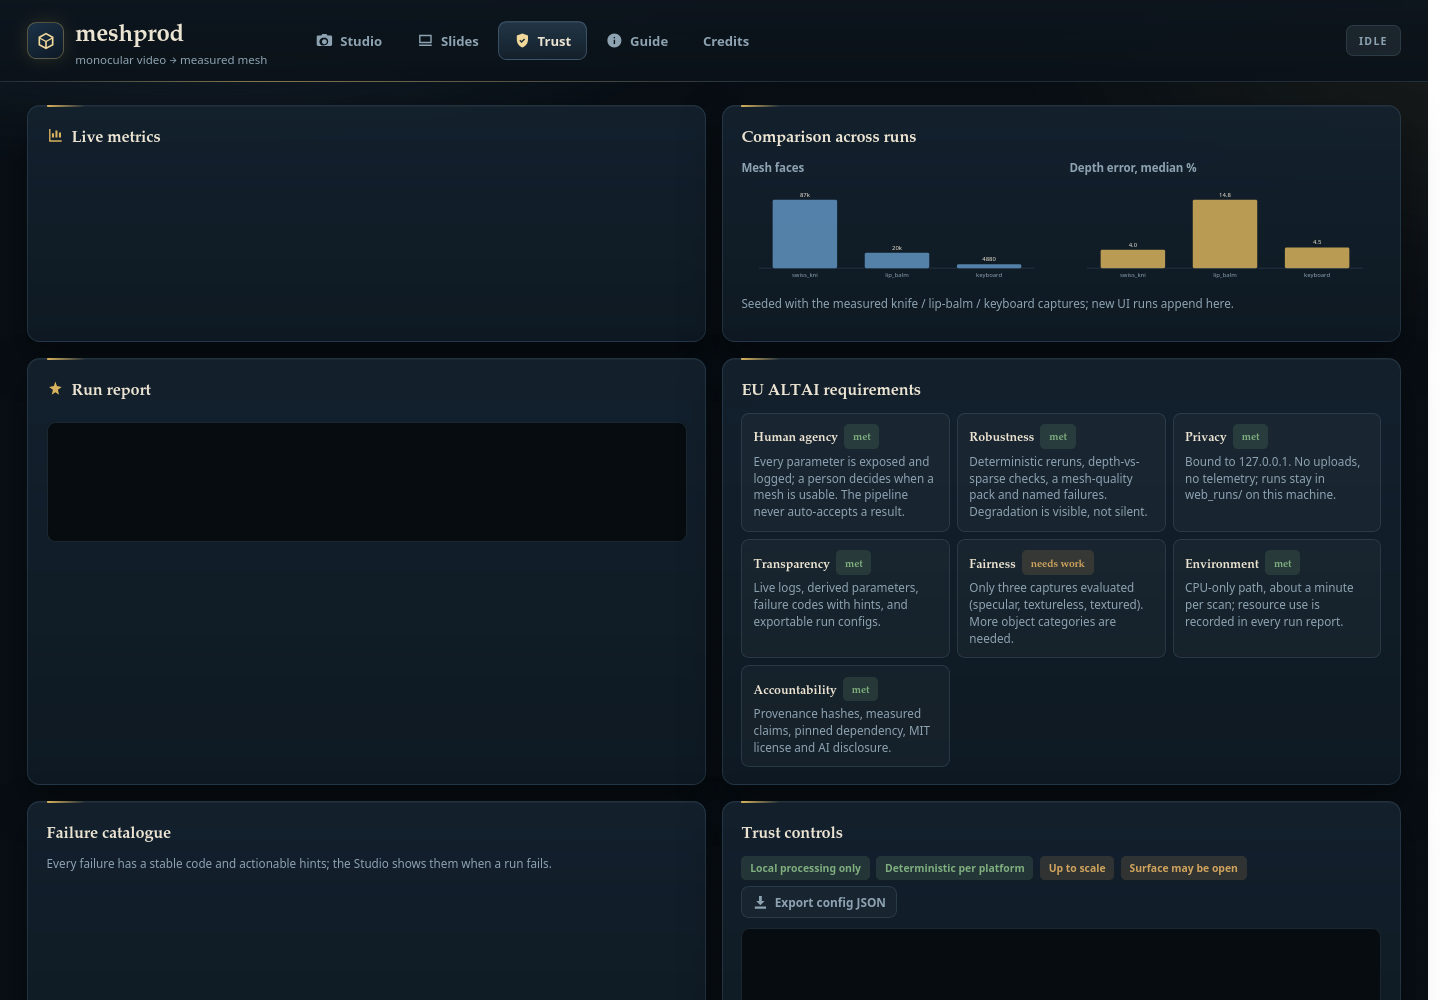
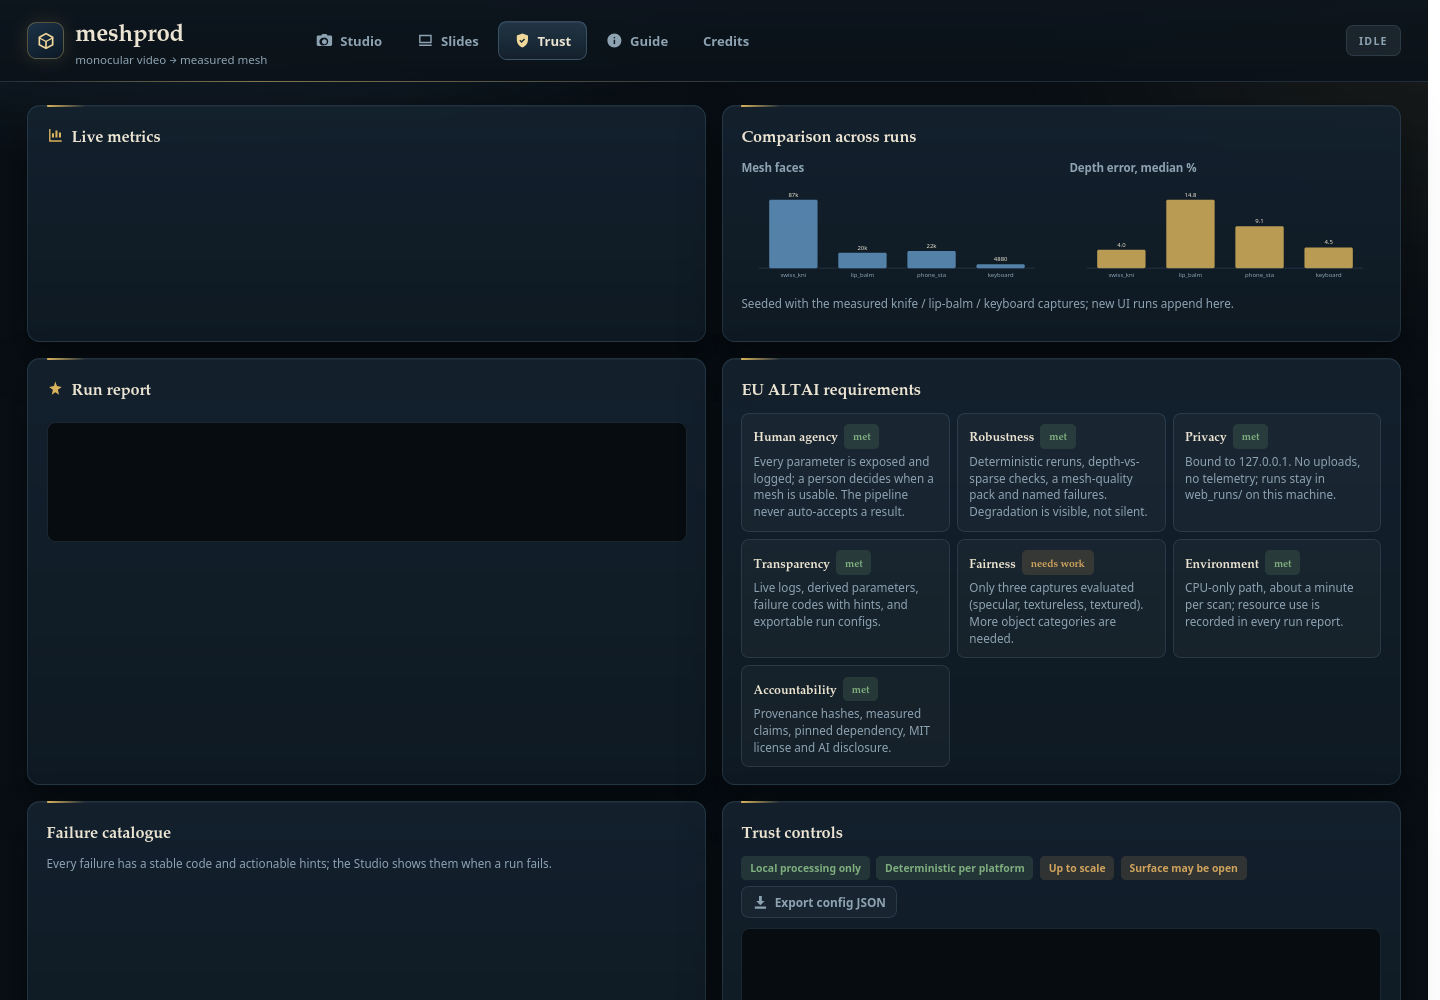
docs: phone-stand capture metrics in reports; seed dashboard with four runs; credits IIIT Gwalior

Changed region(s): [[0.7812, 0.186, 0.9062, 0.279], [0.5312, 0.186, 0.6875, 0.279]]

diff --git a/web/index.html b/web/index.html
@@ -183,7 +183,7 @@
           <div><h3>Mesh faces</h3><svg id="chart-faces" viewBox="0 0 420 140" preserveAspectRatio="xMidYMid meet"></svg></div>
           <div><h3>Depth error, median %</h3><svg id="chart-depth" viewBox="0 0 420 140" preserveAspectRatio="xMidYMid meet"></svg></div>
         </div>
-        <p class="hint">Seeded with the measured knife / lip-balm / keyboard captures; new UI runs append here.</p>
+        <p class="hint">Seeded with the measured knife / lip-balm / keyboard / phone-stand captures; new UI runs append here.</p>
       </div>
       <div class="panel"><h2><svg class="icon"><use href="#i-spark"/></svg>Run report</h2><div class="cards" id="report-cards"></div><pre class="log small wrap" id="report-json"></pre></div>
       <div class="panel"><h2>EU ALTAI requirements</h2><div class="altai" id="altai"></div></div>
@@ -213,7 +213,7 @@
       <div class="panel credits">
         <h2>Credits</h2>
         <div class="credit-grid">
-          <div><h3>Author</h3><p><strong>Adarsh Gupta</strong> — semester project.<br />Institution: <em>[add your university]</em><br />Advisor: <em>[add advisor]</em></p></div>
+          <div><h3>Author</h3><p><strong>Adarsh Gupta</strong> — semester project.<br />IIIT Gwalior</p></div>
           <div><h3>Built on</h3><p>kornia-rs (SfM, calibration, geometry), three.js (viewer), Blender (renders), Open3D (Poisson comparison), GStreamer (decode).</p></div>
           <div><h3>AI disclosure</h3><p>Implemented with AI assistance: OpenCode CLI, DeepSeek V4.1 Flash. The author defined the scope, reviewed every change and owns the design. Every reported number comes from a measured run.</p></div>
           <div><h3>License</h3><p>MIT · <a href="https://github.com/AdarshGuptaa/meshprod" target="_blank" rel="noreferrer">github.com/AdarshGuptaa/meshprod</a></p></div>

diff --git a/web/app.js b/web/app.js
@@ -129,7 +129,7 @@ const ALTAI = [
   ["Robustness", "Deterministic reruns, depth-vs-sparse checks, a mesh-quality pack and named failures. Degradation is visible, not silent.", "good"],
   ["Privacy", "Bound to 127.0.0.1. No uploads, no telemetry; runs stay in web_runs/ on this machine.", "good"],
   ["Transparency", "Live logs, derived parameters, failure codes with hints, and exportable run configs.", "good"],
-  ["Fairness", "Only three captures evaluated (specular, textureless, textured). More object categories are needed.", "warn"],
+  ["Fairness", "Four captures evaluated (specular, textureless, textured, thin). Dark, transparent and deformable objects are still unmeasured.", "warn"],
   ["Environment", "CPU-only path, about a minute per scan; resource use is recorded in every run report.", "good"],
   ["Accountability", "Provenance hashes, measured claims, pinned dependency, MIT license and AI disclosure.", "good"],
 ];
@@ -137,6 +137,7 @@ const ALTAI = [
 const SEED_HISTORY = [
   { name: "swiss_knife", faces: 86971, depth_median: 4.0, patches: 33, views: 22 },
   { name: "lip_balm", faces: 19581, depth_median: 14.8, patches: 41, views: 66 },
+  { name: "phone_stand", faces: 21925, depth_median: 9.1, patches: 20, views: 140 },
   { name: "keyboard", faces: 4880, depth_median: 4.5, patches: 4, views: 63 },
 ];
 

diff --git a/src/server.rs b/src/server.rs
@@ -239,6 +239,18 @@ fn seed_history() -> Vec<RunSummary> {
             cost: "sgm".into(),
         },
         RunSummary {
+            name: "phone_stand".into(),
+            views: 140,
+            points: 2656,
+            rmse: 2.012,
+            depth_median: 9.1,
+            faces: 21925,
+            patches: 20,
+            euler: -233,
+            closed: false,
+            cost: "sgm".into(),
+        },
+        RunSummary {
             name: "keyboard".into(),
             views: 63,
             points: 1077,

diff --git a/docs/tai/ALTAI-assessment.md b/docs/tai/ALTAI-assessment.md
@@ -163,6 +163,33 @@ self-assessment with the actual outcome. `scripts/tai_metrics.sh` adds a
 controlled perturbation suite (resolution, blur, noise, frame drop) so
 robustness is measured as a curve rather than asserted.
 
+### 2.1g Phone stand (thin object on a uniform table)
+
+`stand.mp4` (480×854, 30 fps, 63 s) is a foldable plastic phone stand on a
+red table. The final ~23 s orbit registers **140/380 views** (sparse RMSE
+2.01 px, 2,656 points). Auto-config measured texture 0.027 → **SGM**.
+
+| Metric | Value |
+|---|---|
+| Dense depth vs sparse | median **9.1 %**, p90 76.3 % |
+| Dense points after plane removal | 325,730 (3.1 M tabletop points removed) |
+| Raw mesh | 188,677 faces, 673 patches |
+| After cleanup / QEM | **21,925 faces, 20 patches**, Euler −233 |
+| Mesh quality | boundary-edge ratio **42.7 %**, needle fraction 13.8 %, open |
+| Self-assessment | 0.55 (medium) |
+| Resources | 194 s, **peak RSS 2.9 GB** (140 SGM views) |
+
+The stand is thin, matte and lies on a textureless table: SGM reconstructs the
+table as a smooth sheet, plane removal strips most of it but leaves residue,
+and the visible stand surface is one-sided. This is the fourth capture and the
+clearest demonstration that **thin objects need a second elevation pass and a
+textured support**; it also raises a resource point — 140 registered views with
+SGM cost volumes peak near 3 GB, recorded in the report.
+
+Fairness note: the evaluation set is now four objects (specular knife,
+textureless tube, textured keyboard, thin stand); dark, transparent and
+deformable objects are still unmeasured.
+
 ### 2.2 Repeatability (determinism)
 
 Two independent full runs produced **byte-identical** outputs:

diff --git a/README.md b/README.md
@@ -309,8 +309,8 @@ Every item below was observed in a measured run; numbers are from
 
 18. **No metric ground truth.** Object dimensions were never compared against
     a ruler or GT mesh (AprilTag anchoring skipped by decision).
-19. **Fairness sample is tiny.** Three objects (specular, textureless, textured
-    box); no matte/curved/dark/thin coverage yet.
+19. **Fairness sample is small.** Four objects (specular, textureless, textured
+    box, thin plastic stand); no dark, transparent or deformable coverage yet.
 20. **Determinism scope.** Byte-identical reruns verified for the default and
     auto-config paths; not every flag combination.
 21. **Pinned dependency.** Builds against the `semproj/sfm2mesh` branch of the
